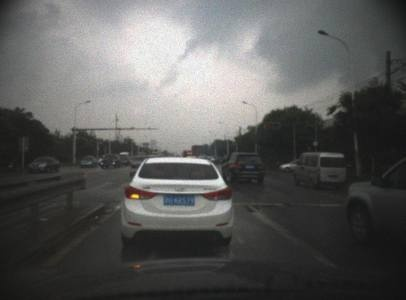
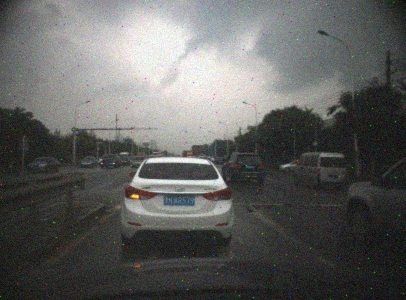
fix: Slight arquitecture change in the NAFBlock forward pass feat: Added model .pth file

diff --git a/Training/archs/vn_arch.py b/Training/archs/vn_arch.py
@@ -45,13 +45,13 @@ class NAFBlock(nn.Module):
         simple_gate = self.simple_gate(x_conv1)
         x_conv2 = self.conv4(simple_gate)
 
-        x = x + x_conv2 * self.gamma
+        x = x_block + x_conv2 * self.gamma
 
         return x
     
 @ARCH_REGISTRY.register()
 class VN(nn.Module):
-    def __init__(self, depth: int = 4, scale_factor: int = 4, num_channels: int = 64) -> None:
+    def __init__(self, depth: int = 8, scale_factor: int = 4, num_channels: int = 64) -> None:
         super(VN, self).__init__()
         self.scale_factor = scale_factor
 

diff --git a/Dataset/synthetic_degradation.py b/Dataset/synthetic_degradation.py
@@ -239,4 +239,4 @@ if __name__ == "__main__":
     
     deg = SynthDeg()
     deg_img = deg.degrade_image_shuffle(img)
-    cv2.imwrite('./LR/initial_test_other.jpg', deg_img)
+    cv2.imwrite('./LR/initial_test.jpg', deg_img)